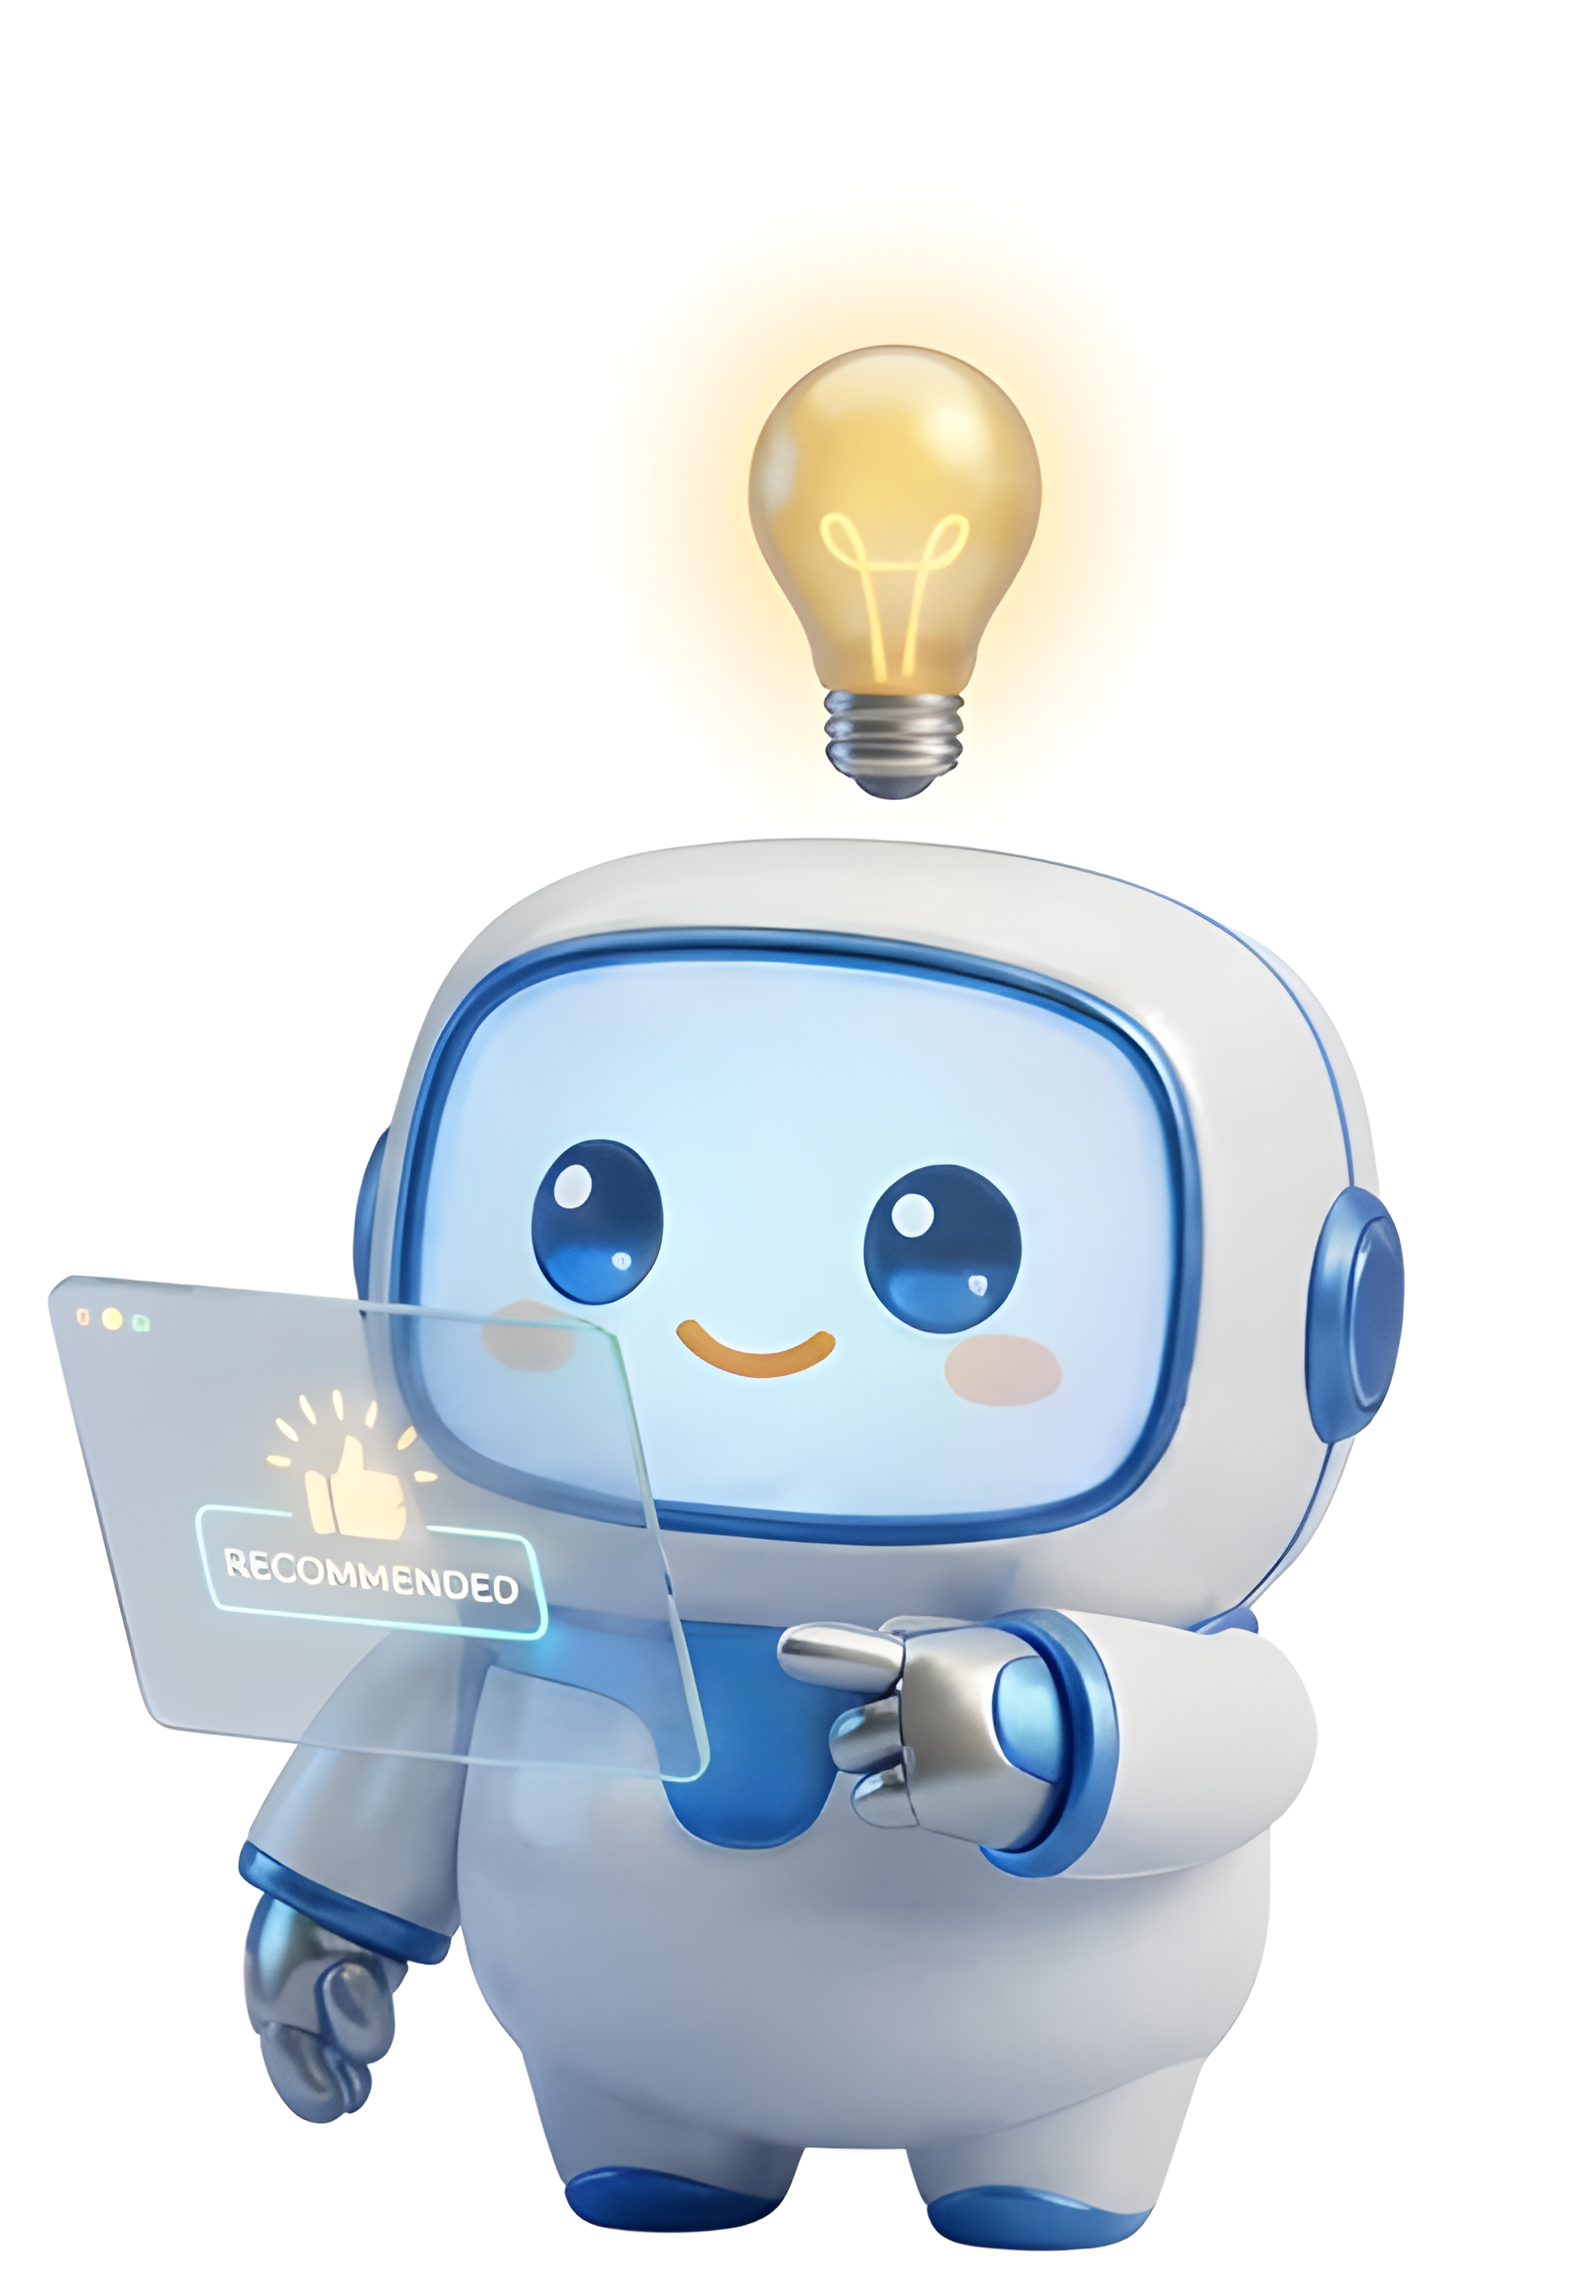
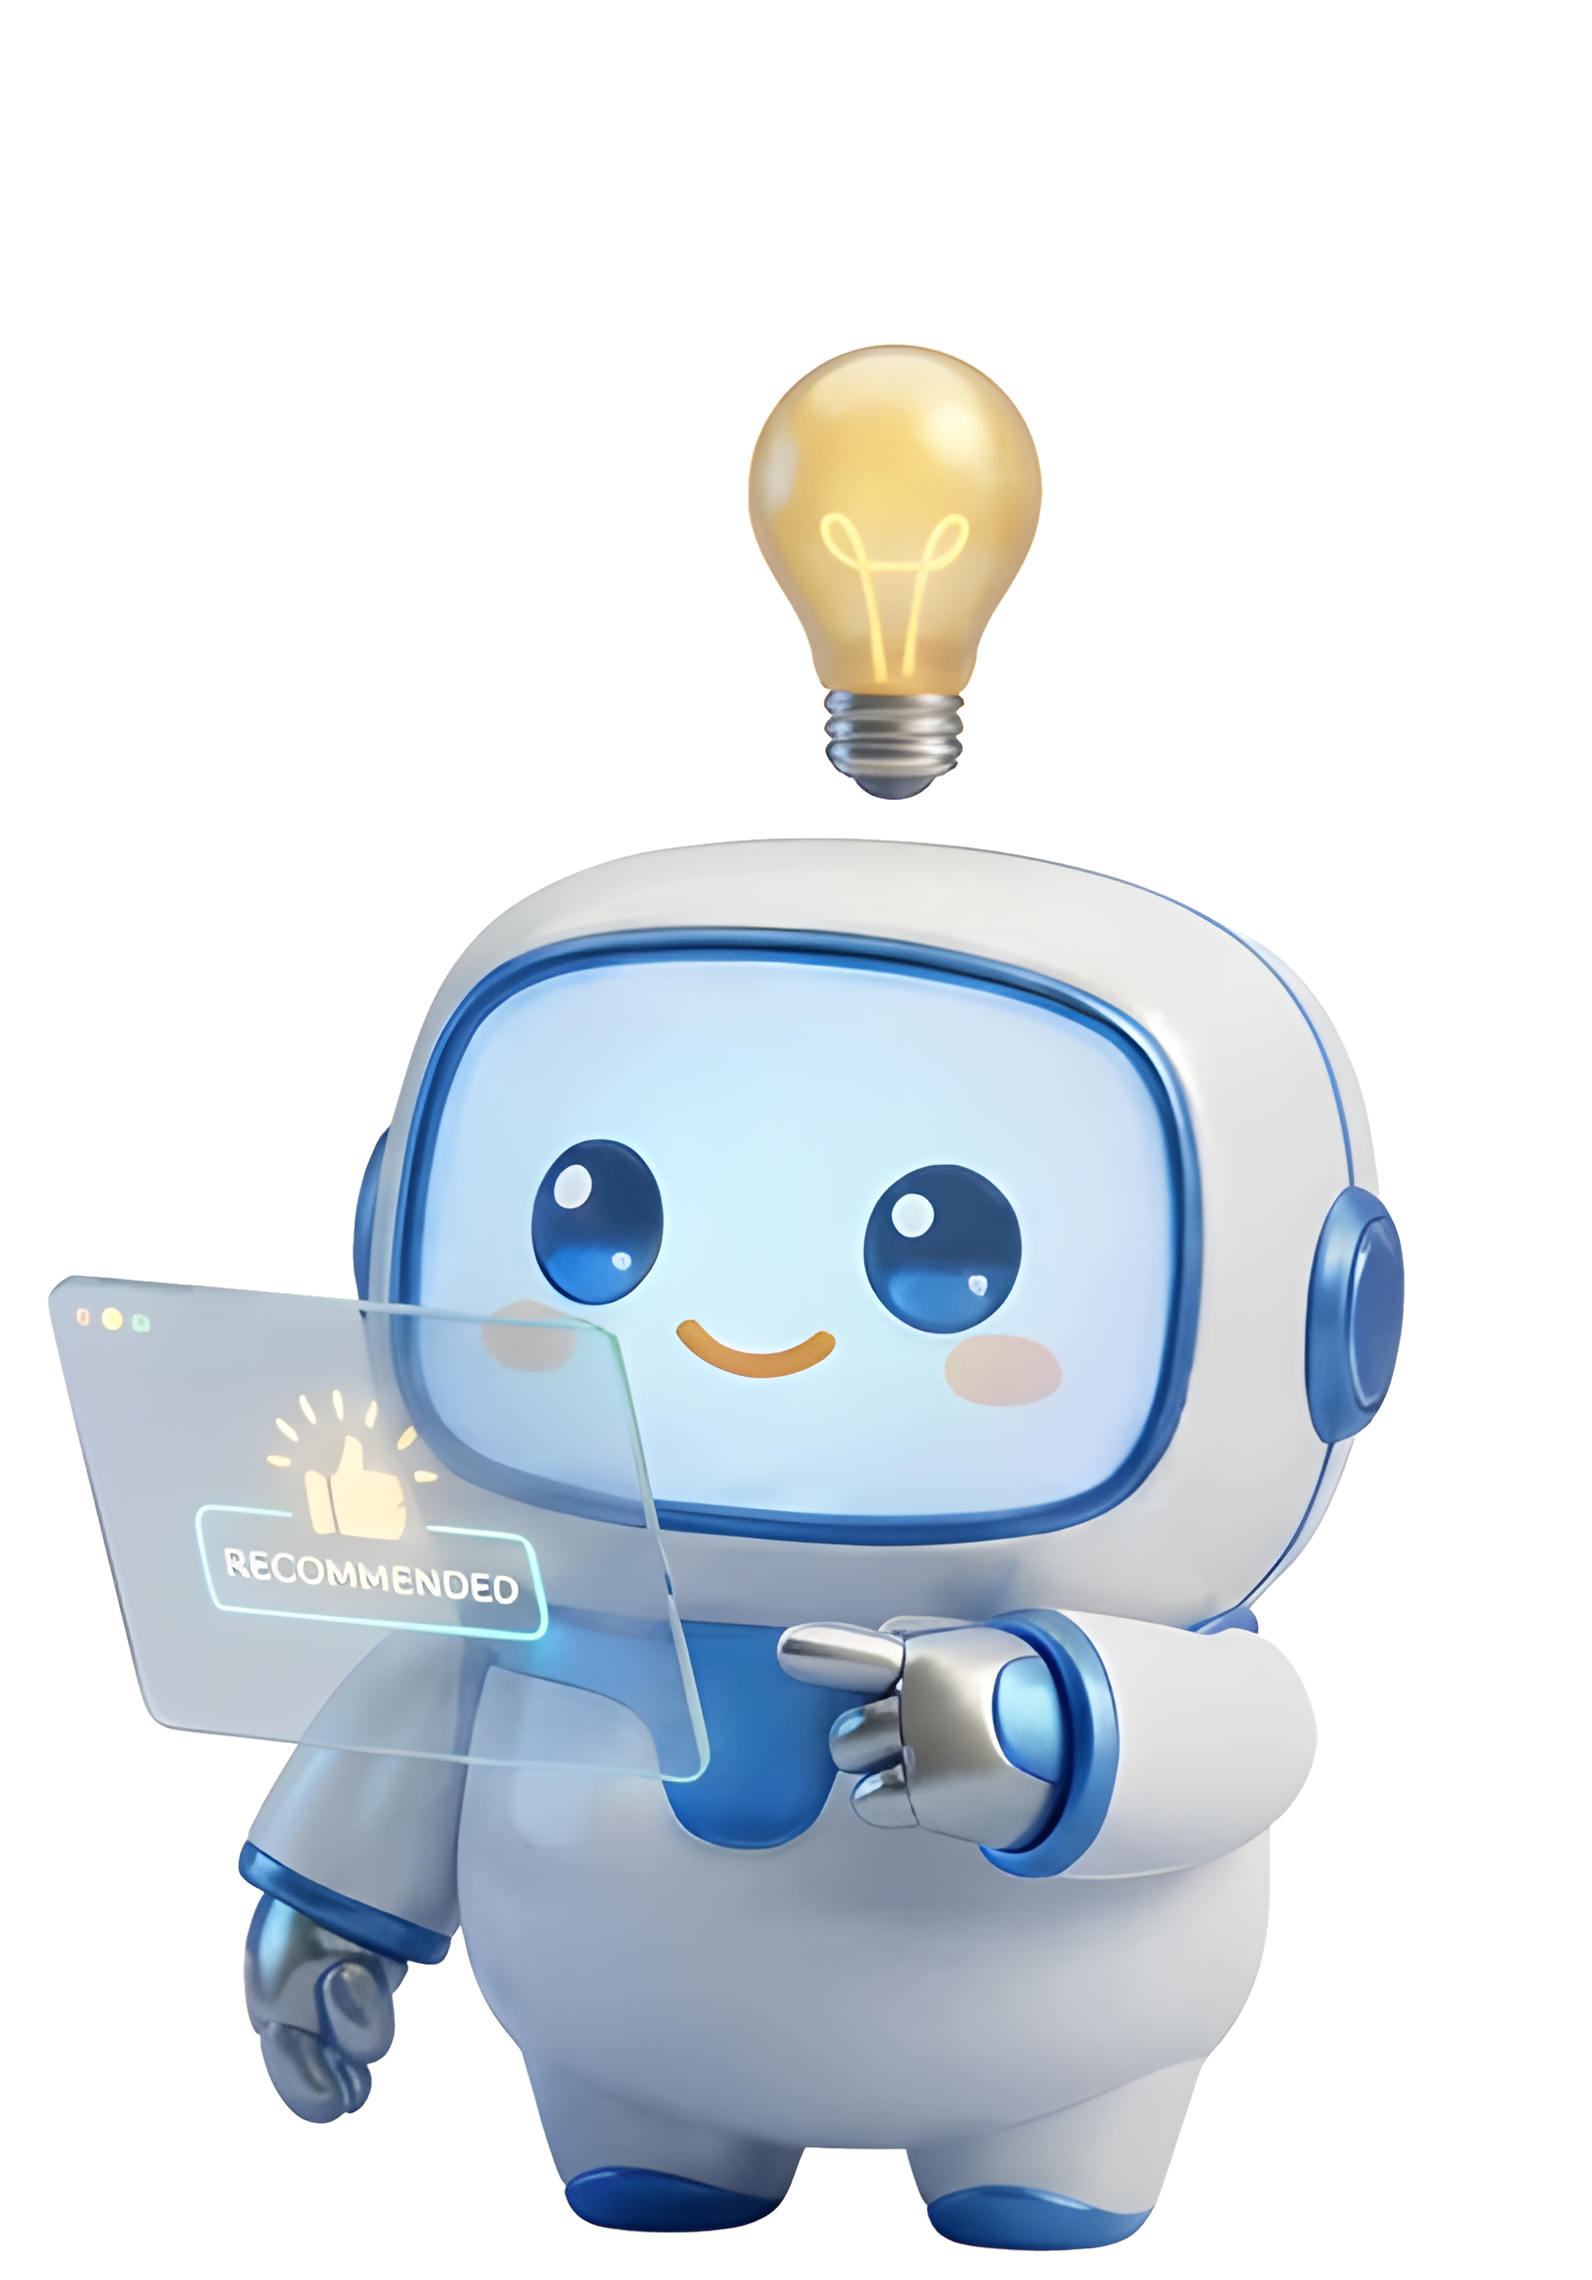
Ommit background on photos

Changed region(s): [[0.4001, 0.0934, 0.7079, 0.3425]]

diff --git a/src/components/reco/RecoPose.tsx b/src/components/reco/RecoPose.tsx
@@ -45,16 +45,14 @@ export function RecoPose({ pose, size = 220, className, float = true, priority =
       style={{ width: size, height: size * (meta.height / meta.width) }}
     >
       <GradientGlow tone={meta.glow} className="left-1/2 top-1/2 h-[85%] w-[85%] -translate-x-1/2 -translate-y-1/2 opacity-80" />
-      <div className="relative h-full w-full overflow-hidden rounded-[1.75rem] bg-white p-3 shadow-[0_20px_45px_-15px_rgba(15,23,42,0.25)] ring-1 ring-black/5">
-        <Image
-          src={meta.src}
-          alt={meta.alt}
-          width={meta.width}
-          height={meta.height}
-          priority={priority}
-          className="h-full w-full object-contain"
-        />
-      </div>
+      <Image
+        src={meta.src}
+        alt={meta.alt}
+        width={meta.width}
+        height={meta.height}
+        priority={priority}
+        className="relative h-full w-full object-contain drop-shadow-[0_20px_35px_rgba(15,23,42,0.25)]"
+      />
     </div>
   );
 }